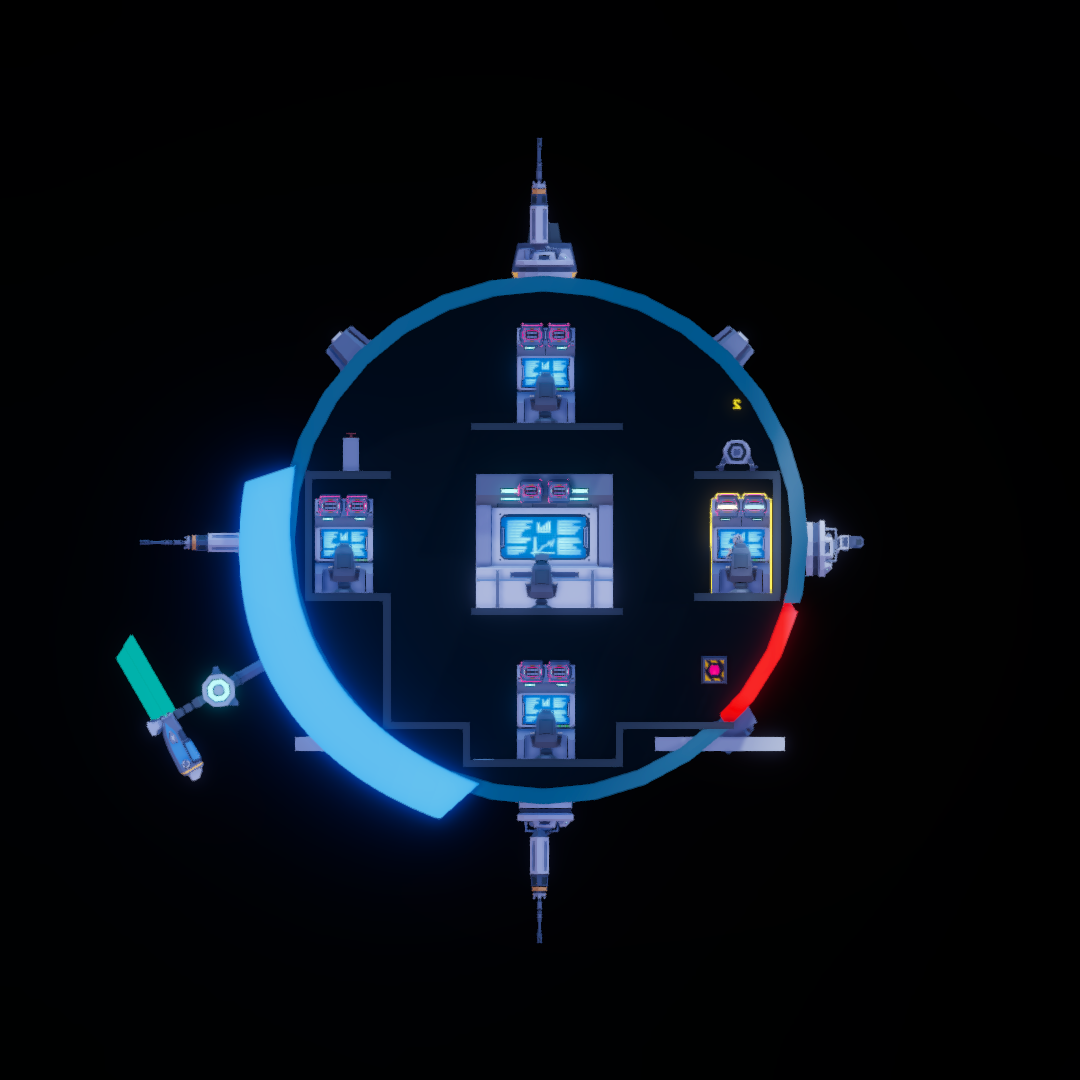
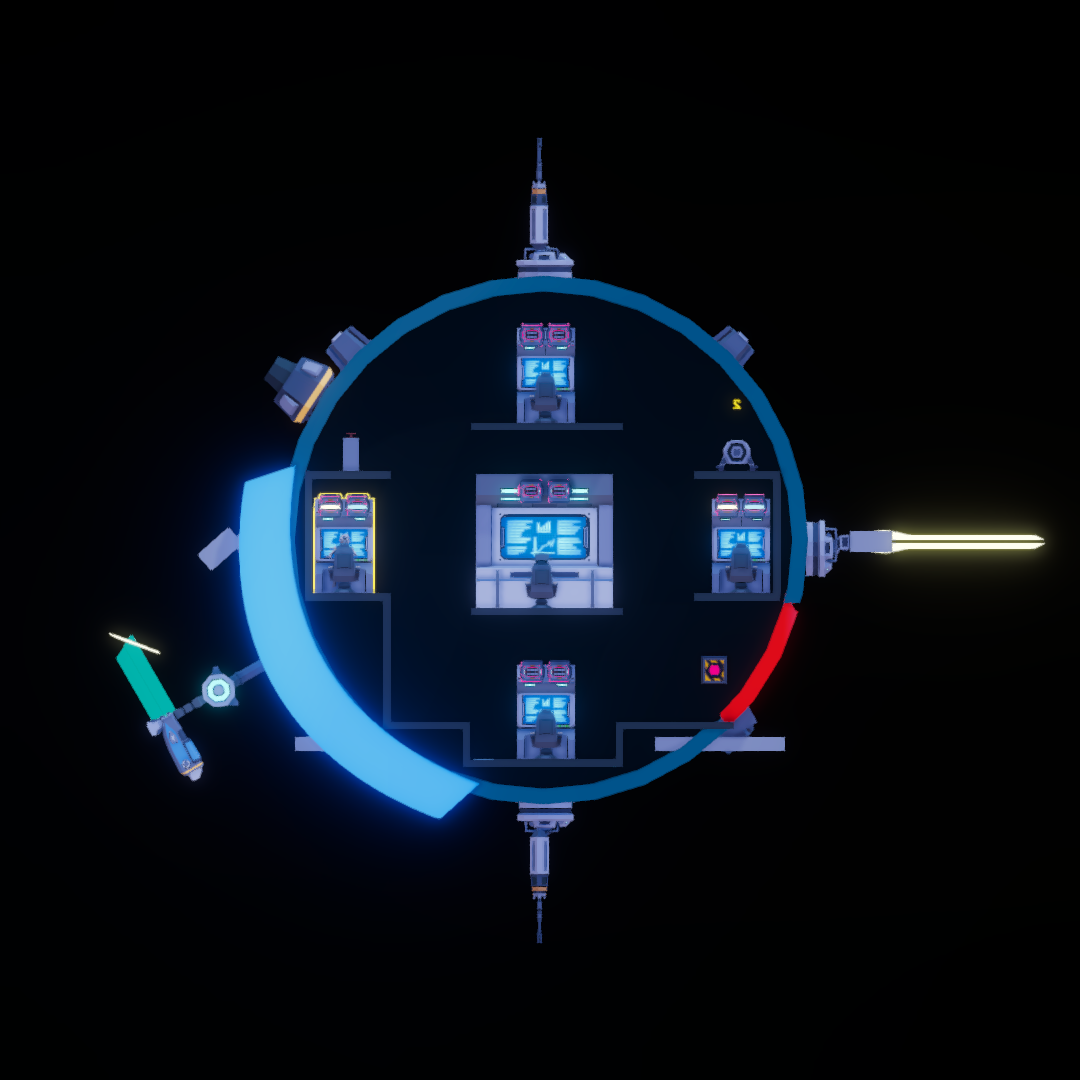
Commit

diff --git a/Assets/Scripts/Combat/ElectricHarpoon.cs b/Assets/Scripts/Combat/ElectricHarpoon.cs
@@ -10,7 +10,7 @@ public class ElectricHarpoon : MeleeWeapon
     [Header("Transforms")]
     [SerializeField] private Transform _moveToForLightSaber;
     [SerializeField] private Transform _handleTransform;
-    [SerializeField] private Transform _lightSaberVisual;
+    [SerializeField] private Rigidbody _harpoonRb;
     [Header("Floats")]
     [SerializeField] private float _flyingSpeed;
     [SerializeField] private float _rotationSpeed;
@@ -44,13 +44,15 @@ public class ElectricHarpoon : MeleeWeapon
         base.Start();
 
         _rotationSpeed = _rotationSpeed * _rotationSpeed;
-        _originalHarpoonPosition = _lightSaberVisual.transform.localPosition;
-        _originalHarpoonRotation = _lightSaberVisual.transform.localRotation;
+        _originalHarpoonPosition = _harpoonRb.transform.localPosition;
+        _originalHarpoonRotation = _harpoonRb.transform.localRotation;
     }
 
     public override void Update()
     {
         base.Update();
+
+        _harpoonRb.isKinematic = _throwState == ThrowState.Attached;
 
         ThrowLightSaber();
     }
@@ -92,12 +94,13 @@ public class ElectricHarpoon : MeleeWeapon
     {
         Transform moveToCurrentPosition = _moveToForLightSaber;
 
-        if (_throwState == ThrowState.Throwing && _lightSaberVisual.position != moveToCurrentPosition.position)
+        if (_throwState == ThrowState.Throwing && _harpoonRb.transform.position != moveToCurrentPosition.position)
         {
-            _lightSaberVisual.SetParent(null);
-            _lightSaberVisual.position = Vector3.MoveTowards(_lightSaberVisual.position, moveToCurrentPosition.position, Time.deltaTime * _flyingSpeed);
+            _harpoonRb.transform.SetParent(null);
+            Vector3 forceDir = moveToCurrentPosition.position - _harpoonRb.transform.position;
+            _harpoonRb.AddForce(forceDir.normalized * _flyingSpeed * Time.deltaTime);
         }
-        else if (_throwState == ThrowState.Throwing && _lightSaberVisual.position == moveToCurrentPosition.position)
+        if (_throwState == ThrowState.Throwing && Vector3.Distance(_harpoonRb.transform.position, moveToCurrentPosition.position) < 2f)
         {
             _throwState = ThrowState.Arrived;
         }
@@ -107,15 +110,15 @@ public class ElectricHarpoon : MeleeWeapon
 
     private void LightSaberReturnToWeapon()
     {
-        if (_lightSaberVisual.position != _handleTransform.position && _throwState == ThrowState.Returning)
+        if (_harpoonRb.transform.position != _handleTransform.position && _throwState == ThrowState.Returning)
         {
-            _lightSaberVisual.position = Vector3.MoveTowards(_lightSaberVisual.position, _handleTransform.position, Time.deltaTime * _flyingSpeed);
+            _harpoonRb.transform.position = Vector3.MoveTowards(_harpoonRb.transform.position, _handleTransform.position, Time.deltaTime * _flyingSpeed);
         }
-        if (_lightSaberVisual.position == _handleTransform.position && _throwState == ThrowState.Returning)
+        if (_harpoonRb.transform.position == _handleTransform.position && _throwState == ThrowState.Returning)
         {
-            _lightSaberVisual.SetParent(_handleTransform);
-            _lightSaberVisual.localPosition = _originalHarpoonPosition;
-            _lightSaberVisual.localRotation = _originalHarpoonRotation;
+            _harpoonRb.transform.SetParent(_handleTransform);
+            _harpoonRb.transform.localPosition = _originalHarpoonPosition;
+            _harpoonRb.transform.localRotation = _originalHarpoonRotation;
             _weapon.ShouldRotate = true;
             _throwState = ThrowState.Attached;
         }
